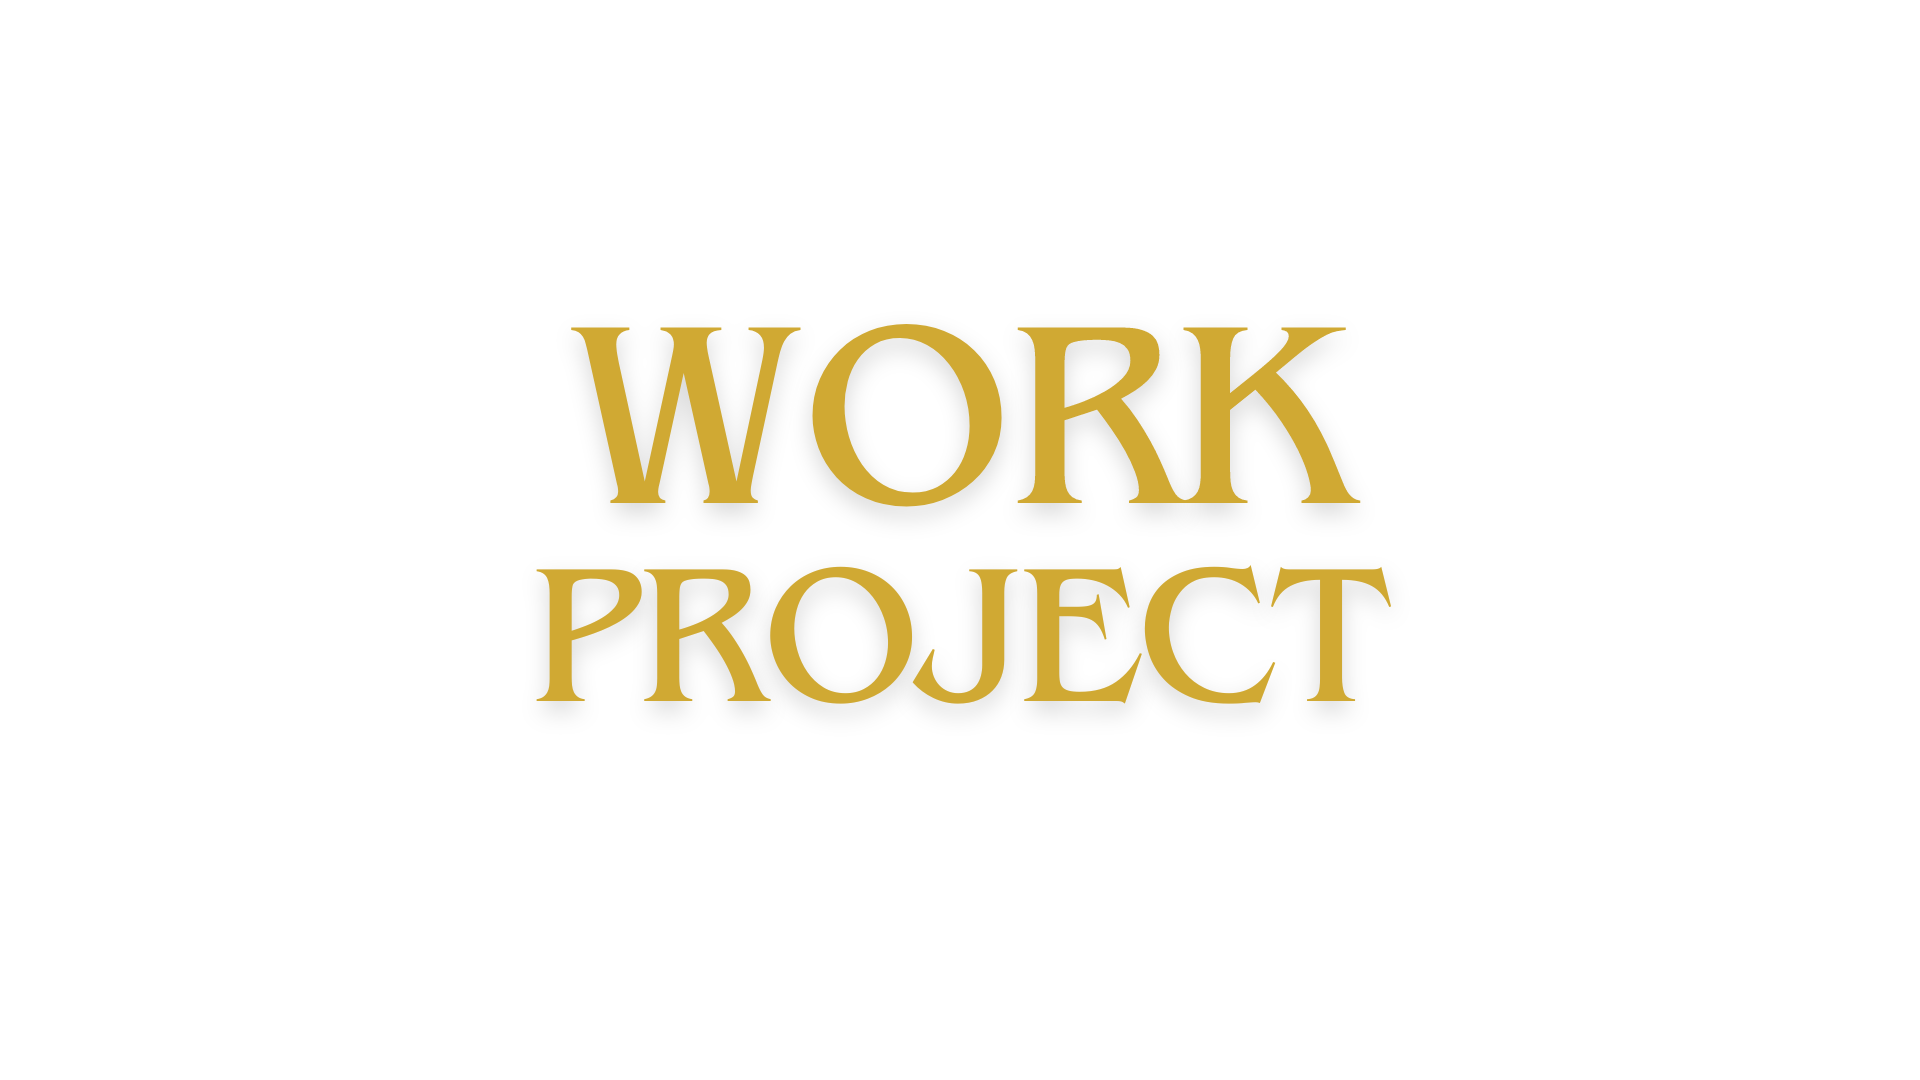
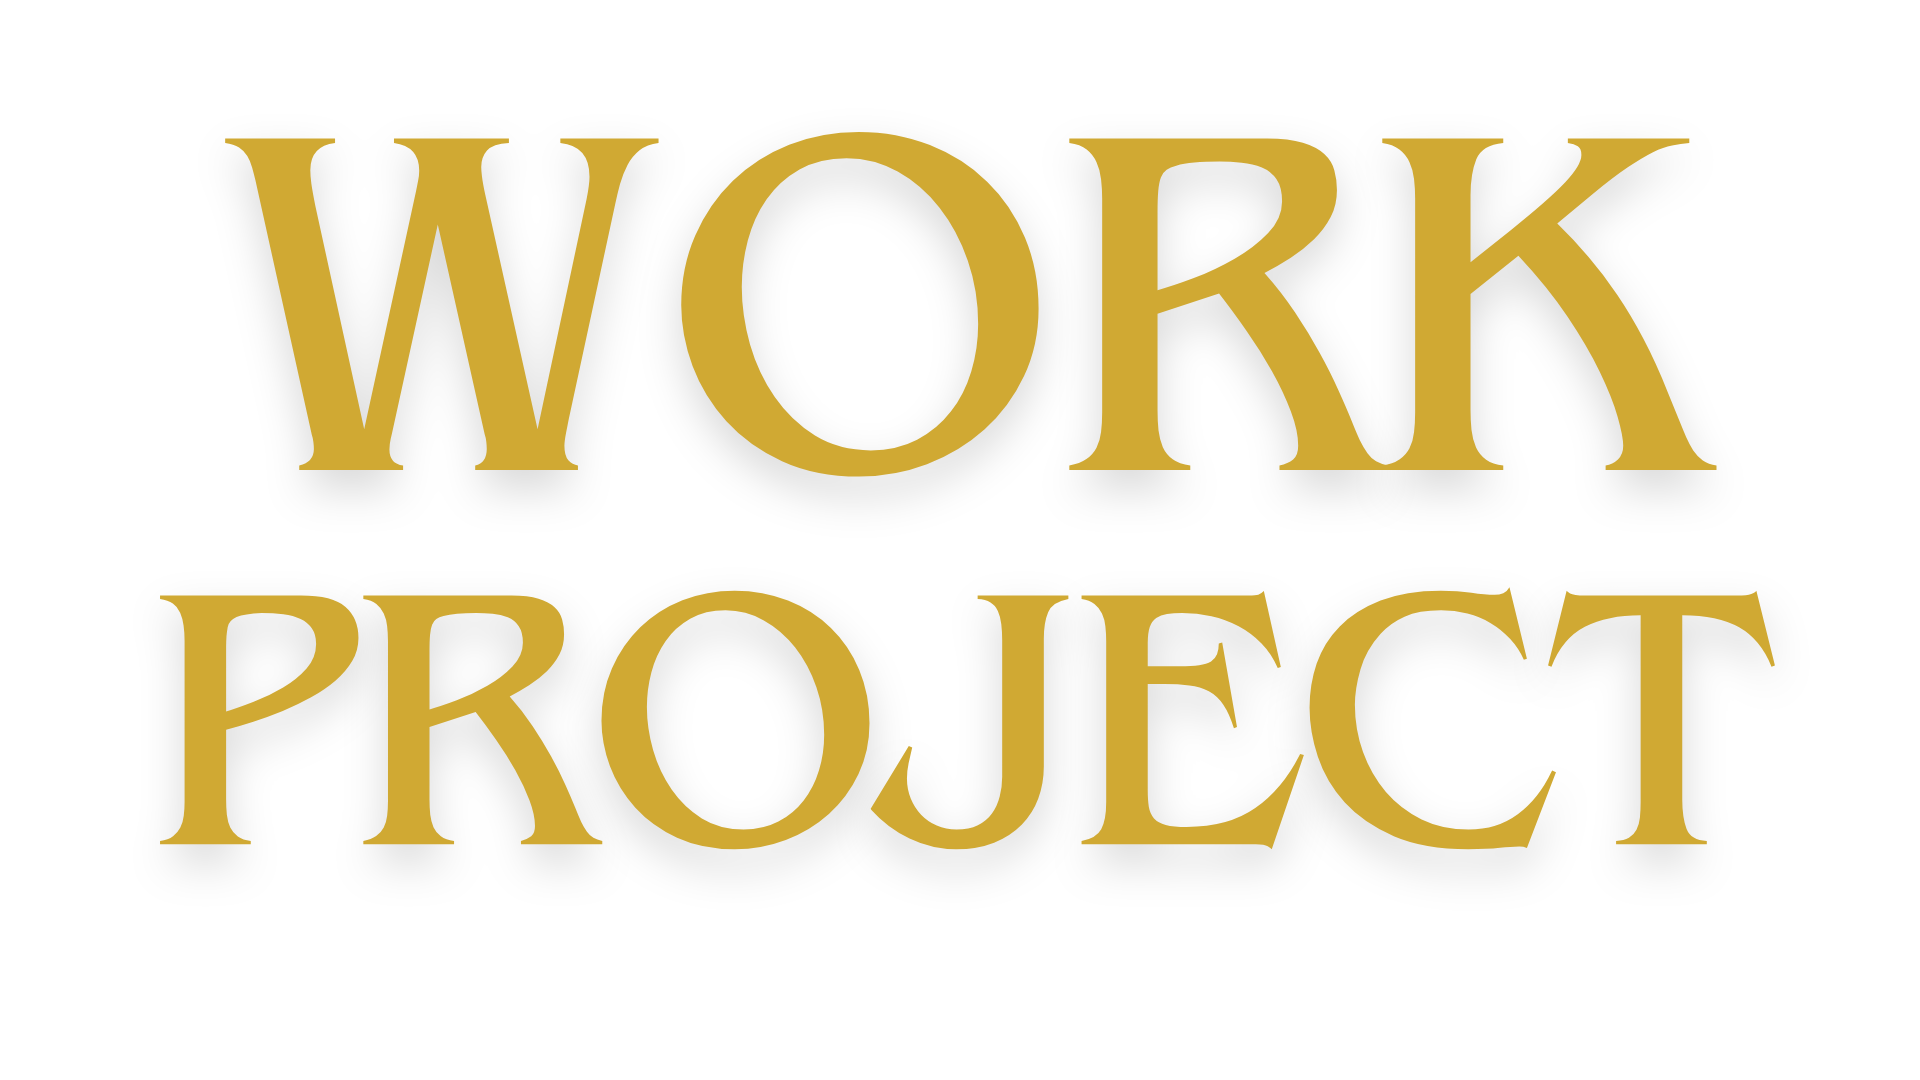
zoom

Changed region(s): [[0.125, 0.1222, 0.9062, 0.4889], [0.0938, 0.5194, 0.9375, 0.7944]]

diff --git a/index.html b/index.html
@@ -129,7 +129,7 @@
     <div class="wrapper">
       <img src="School.png" class="cover-image" />
     </div>
-    <img src="S3.png" class="title" />
+    <img src="PERSONAL (4).png" class="title" />
   </div>
 </a>
 
